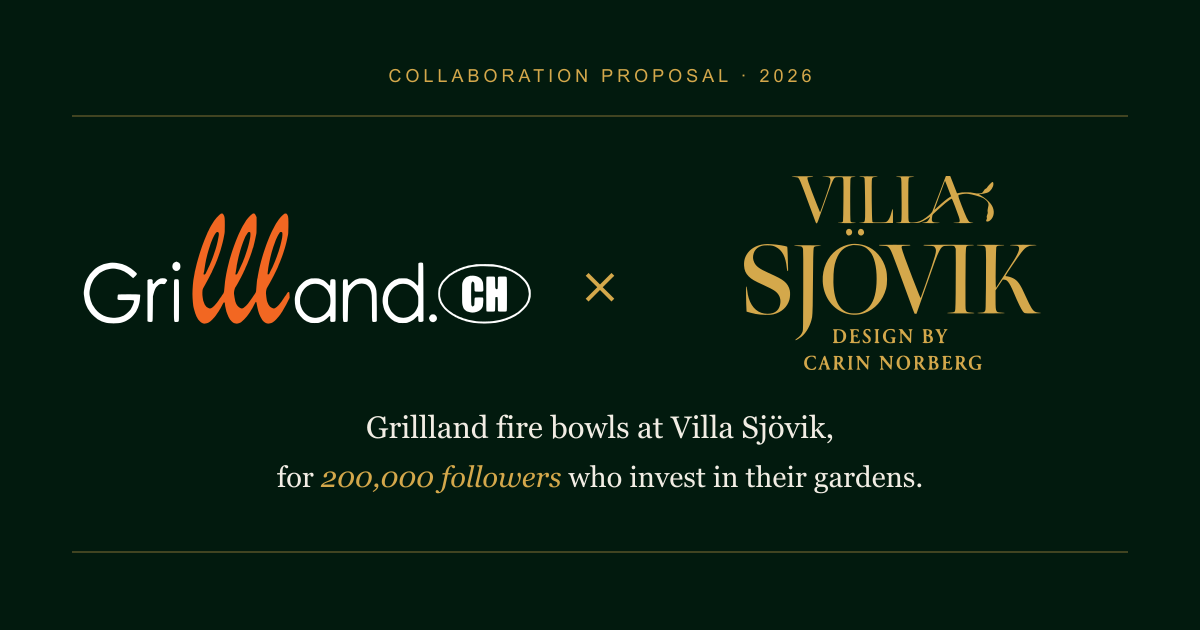
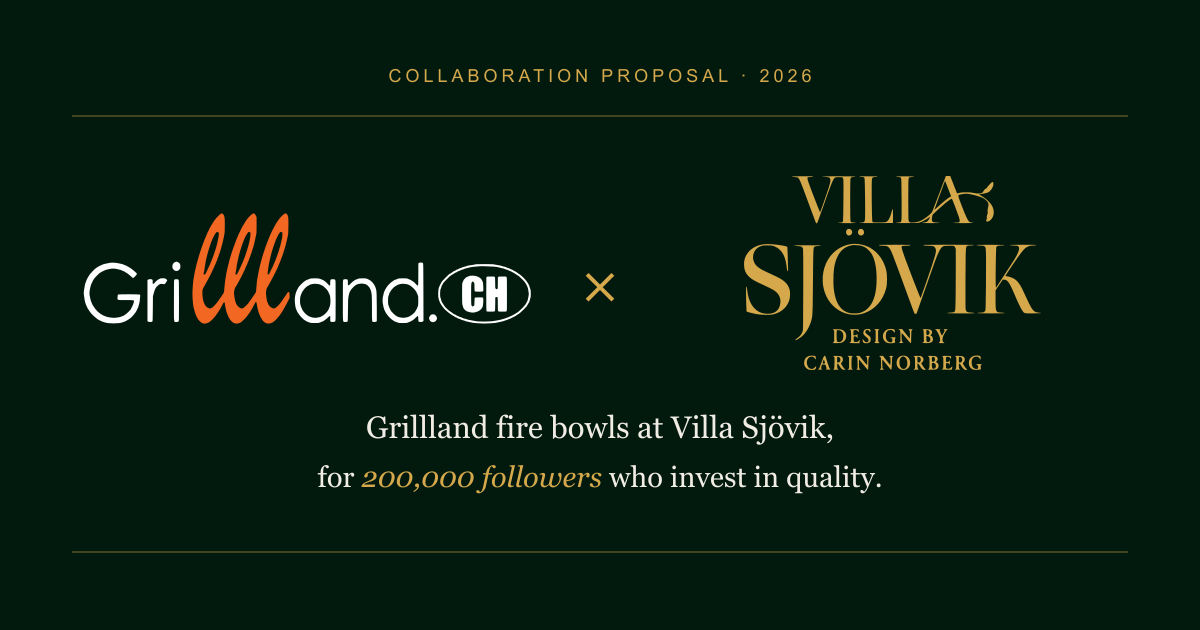
Hjälteraden: who invest in quality (Lucas 2026-10-19)

Changed region(s): [[0.2158, 0.7238, 0.7708, 0.7841]]

diff --git a/index.html b/index.html
@@ -6,7 +6,7 @@
 <title>Grillland × Villa Sjövik</title>
 <link rel="icon" type="image/png" href="./grillland-favicon.png"/>
 <meta property="og:title" content="Grillland × Villa Sjövik — Collaboration proposal 2026"/>
-<meta property="og:description" content="Grillland fire bowls at Villa Sjövik, for 200,000 followers who invest in their gardens."/>
+<meta property="og:description" content="Grillland fire bowls at Villa Sjövik, for 200,000 followers who invest in quality."/>
 <meta property="og:image" content="https://villasjovik.github.io/grillland/og-image.png"/>
 <meta property="og:image:width" content="1200"/>
 <meta property="og:image:height" content="630"/>
@@ -15,7 +15,7 @@
 <meta property="og:type" content="website"/>
 <meta name="twitter:card" content="summary_large_image"/>
 <meta name="twitter:title" content="Grillland × Villa Sjövik — Collaboration proposal 2026"/>
-<meta name="twitter:description" content="Grillland fire bowls at Villa Sjövik, for 200,000 followers who invest in their gardens."/>
+<meta name="twitter:description" content="Grillland fire bowls at Villa Sjövik, for 200,000 followers who invest in quality."/>
 <meta name="twitter:image" content="https://villasjovik.github.io/grillland/og-image.png"/>
 <link rel="preconnect" href="https://fonts.googleapis.com"/>
 <link rel="preconnect" href="https://fonts.gstatic.com" crossorigin/>
@@ -1352,7 +1352,7 @@ position:relative;overflow:hidden;transition:color .35s}
       </div>
     </div>
     <div class="h-tag-p" data-par="5,4">
-    <h1 class="h-tagline">Grillland fire bowls at Villa Sjövik, for <em>200,000 followers</em> who invest in their gardens.</h1>
+    <h1 class="h-tagline">Grillland fire bowls at Villa Sjövik, for <em>200,000 followers</em> who invest in quality.</h1>
     </div>
     <div class="h-scroll" aria-hidden="true">
       <span>Explore</span>
